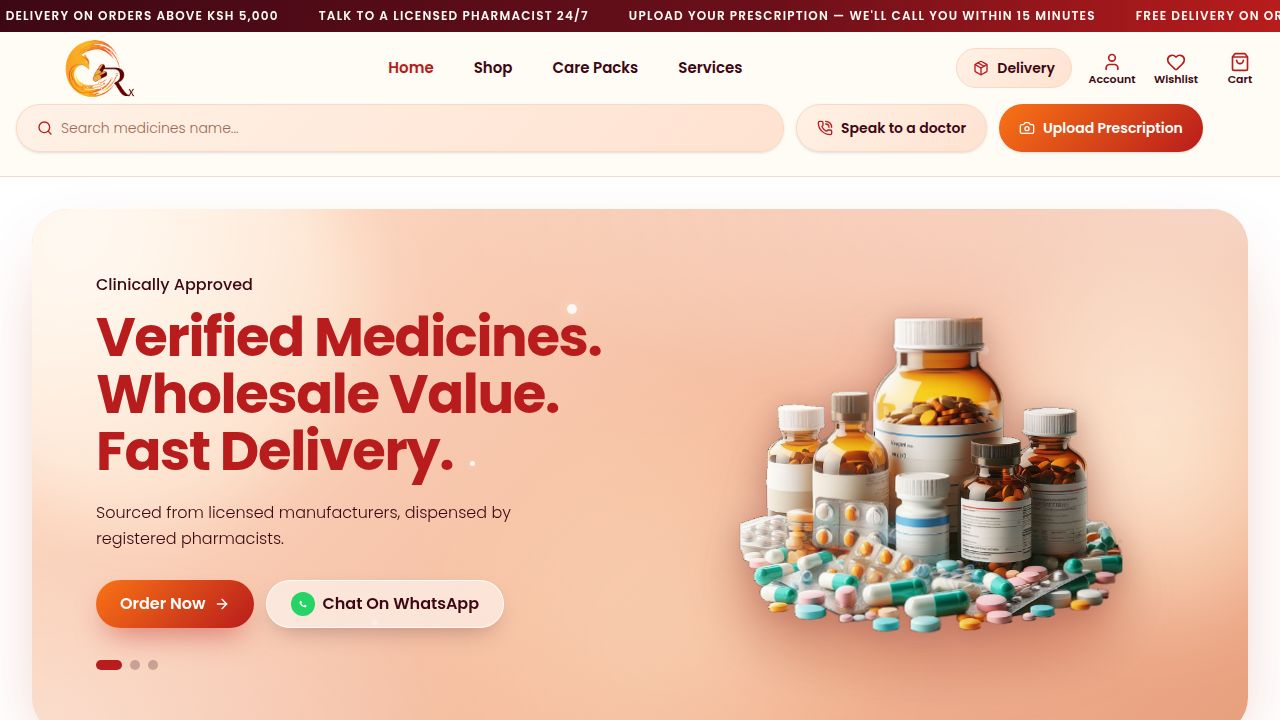
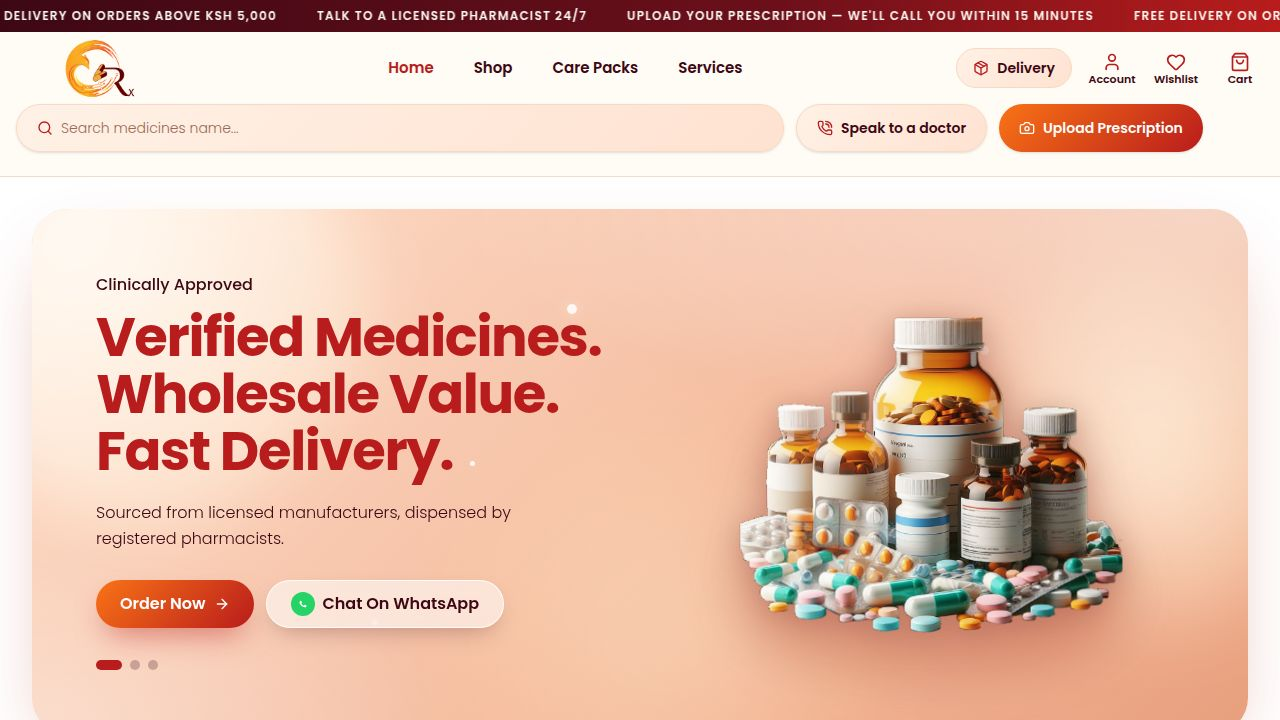
Improve phone number handling and validation for orders
Refactor phone number resolution in `buildOrderPayload` to prioritize saved address and M-Pesa numbers, add client-side validation before order submission, and enhance error message display for invalid phone formats.

Replit-Commit-Author: Agent
Replit-Commit-Session-Id: 2125ed88-b774-44cb-9fdc-d56bae22d967
Replit-Commit-Checkpoint-Type: full_checkpoint
Replit-Commit-Event-Id: 959053ca-0643-4472-a56c-602e3b17083d
Replit-Commit-Screenshot-Url: https://storage.googleapis.com/screenshot-production-us-central1/782ac16e-9d79-4047-9b62-96de08730a22/2125ed88-b774-44cb-9fdc-d56bae22d967/evZNwhn
Replit-Helium-Checkpoint-Created: true

diff --git a/artifacts/her-kingdom/src/components/store/checkout-page.tsx b/artifacts/her-kingdom/src/components/store/checkout-page.tsx
@@ -632,22 +632,22 @@ export function CheckoutPage() {
   const freeProgress     = Math.min(100, Math.round((totalPrice / freeShippingThreshold) * 100))
 
   /* ── Phone validation ──
-     Normalize to digits only (mirror of server-side `isValidPhone`) so the
-     client check matches what the API will accept. The old fallback counted
-     any non-stripped chars, which let letters / pasted junk through and the
-     server then rejected the order with a vague "Invalid phone number format". */
-  const digitsOnly  = formData.phone.replace(/\D/g, "")
-  const hasLeading  = formData.phone.trim().startsWith("+")
+     Use the resolved phone (formData → savedAddress → mpesaPhone) so the
+     check matches exactly what buildOrderPayload sends. Mirror of server-side
+     isValidPhone in api-server/src/lib/security.ts. */
+  const digitsOnly  = (formData.phone || savedAddress?.phone || mpesaPhone || "").replace(/\D/g, "")
+  const hasLeading  = (formData.phone || savedAddress?.phone || mpesaPhone || "").trim().startsWith("+")
   const cleanPhone  = (hasLeading ? "+" : "") + digitsOnly
   const isPhoneValid =
     /^(\+?254[17]\d{8}|0[17]\d{8}|011\d{7})$/.test(cleanPhone) ||
     (digitsOnly.length >= 9 && digitsOnly.length <= 15)
 
   /* ── Build payload ── */
+  const resolvedPhone = formData.phone || savedAddress?.phone || mpesaPhone || ""
   const buildOrderPayload = (via: string) => ({
-    customerName:     formData.name,
+    customerName:     formData.name || savedAddress?.name || "",
     customerEmail:    formData.email || undefined,
-    customerPhone:    formData.phone,
+    customerPhone:    resolvedPhone,
     deliveryLocationId: deliveryLocation || undefined,
     deliveryAddress:  formData.address,
     deliveryFee:      freeShipping ? 0 : deliveryFee,
@@ -1628,6 +1628,10 @@ export function CheckoutPage() {
                     <button
                       onClick={() => {
                         setFormError("")
+                        if (!isPhoneValid) {
+                          setFormError("Please enter a valid phone number (e.g. [phone redacted] or [phone redacted]).")
+                          return
+                        }
                         if (paymentMethod === "mpesa")     { setShowPaystack(true);    return }
                         /* COD: place order directly */
                         ;(async () => {
@@ -1637,7 +1641,10 @@ export function CheckoutPage() {
                             const res  = await fetch("/api/orders", { method: "POST", headers: { "Content-Type": "application/json" }, body: JSON.stringify(payload) })
                             const data = await res.json().catch(() => ({}))
                             if (!res.ok || !data?.orderNumber) {
-                              setFormError(data?.error || "We couldn't place the order. Please try again.")
+                              const msg = data?.hint
+                                ? `${data.error}: ${data.hint}`
+                                : (data?.error || "We couldn't place the order. Please try again.")
+                              setFormError(msg)
                               return
                             }
                             {